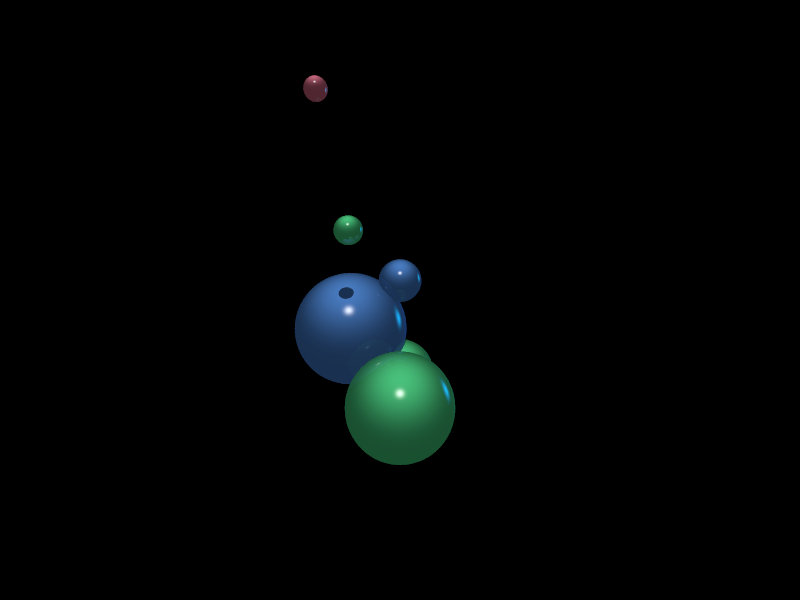
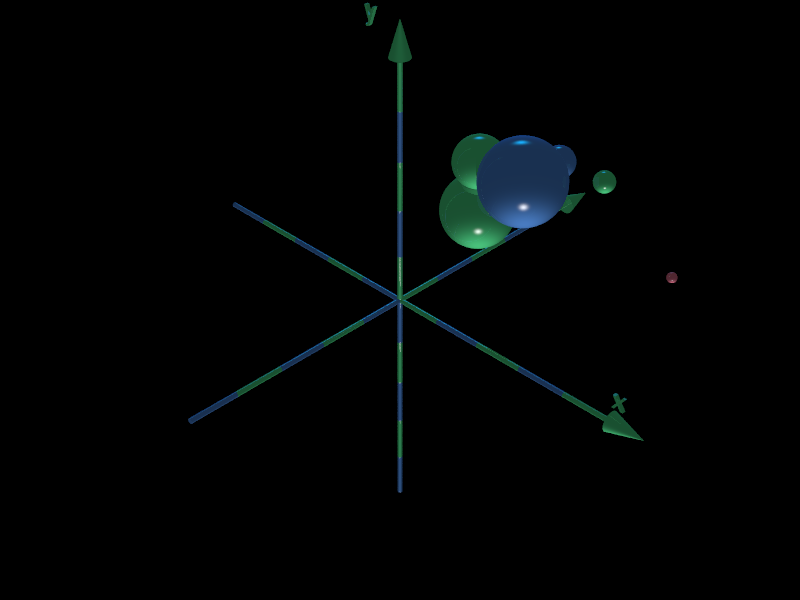
Axis, CSG, scene begin/end

diff --git a/pov.m b/pov.m
@@ -22,7 +22,11 @@ classdef pov < handle
                 o.shade = shade;
                 o.alpha = alpha;
             end
-            
+        end
+
+        % Begin scene
+        function scene_begin(o)
+            o.fh = fopen(o.out_dir + "\" + o.scene_file,'w');
             b = sprintf('#version 3.7;\n');
             b = sprintf('%sglobal_settings { assumed_gamma 1 }\n\n', b);
             b = sprintf('%s#include "colors.inc"\n',   b);
@@ -31,12 +35,22 @@ classdef pov < handle
             b = sprintf('%s#include "metals.inc"\n',   b);
             b = sprintf('%s#include "textures.inc"\n', b);
             b = sprintf('%s#include "finish.inc"\n\n', b);
-            o.fh = fopen(o.out_dir + "\" + o.scene_file,'w');            
+            b = sprintf('%s#include "axis.inc"\n\n',   b);
             fprintf(o.fh, b);
 
             figure;
         end
+        
+        % End scene
+        function scene_end(o)
+            fclose(o.fh);
+        end
 
+        % Declare
+        function declare(o, symbol, text)
+            fprintf(o.fh,'#declare %s = %s"\n', symbol, text);
+        end
+        
         % Camera
         function camera(o, angle, location, look_at)
             b = sprintf('camera {perspective angle %d\n', angle);
@@ -51,6 +65,13 @@ classdef pov < handle
             fprintf(o.fh,'light_source{< %0.1f, %0.1f, %0.1f> rgb<%0.2f, %0.2f, %0.2f>}\n\n', ...
                           location(1), location(2), location(3), ...
                           color(1), color(2), color(3));
+        end
+       
+        % Axis
+        function axis(o, size, tex_light, text_dark)
+            fprintf(o.fh,'object{AxisXYZ( %0.1f, %0.1f, %0.1f,\n      %s,      %s)}\n\n', ...
+                    size(1), size(2), size(3), ...
+                    tex_light, text_dark);
         end
 
         % Texture
@@ -87,32 +108,31 @@ classdef pov < handle
 
         % CSG:Difference
         function difference_begin(o)
-            disp("QQ:pov:difference_begin()");
+            fprintf(o.fh,'difference {\n');
         end
         function difference_end(o)
-            disp("QQ:pov:difference_end()");
+            fprintf(o.fh,'}\n\n');
         end 
 
         % CSG:Intersection
         function intersection_begin(o)
-            disp("QQ:pov:intersection_begin()");
+            fprintf(o.fh,'intersection {\n');
         end
         function intersection_end(o)
-            disp("QQ:pov:intersection_end()");
+            fprintf(o.fh,'}\n\n');
         end
 
         % CSG:Merge
         function merge_begin(o)
-            disp("QQ:pov:merge_begin()");
+            fprintf(o.fh,'merge {\n');
         end
         function merge_end(o)
-            disp("QQ:pov:merge_end()");
+            fprintf(o.fh,'}\n\n');
         end
 
         % Render
         function render(o)
             disp("QQ:pov:render()");
-            fclose(o.fh);
             figure;
             system(sprintf('"%s" /RENDER %s\\%s /EXIT', o.pov_path, o.out_dir, o.scene_file));
             imshow(o.image_file);

diff --git a/examples/spheres_union.m b/examples/spheres_union.m
@@ -7,16 +7,20 @@ pov = pov( "C:\Program Files\POV-Ray\v3.7\bin\pvengine64.exe", ...
            "spheres_union.pov", "spheres_union.png", ...
            'interp', 0.5); % 'faceted' 'flat'
 
-pov.camera(85, [3 -3 3], [0 12 0]);
+pov.scene_begin();
+pov.camera(35, [14 14 -14], [0 0 0]);
 
 pov.light([-1000 1000 1000], [0.0 0.4 0.9]);
-pov.light([3000 -3000 3000], [0.8 0.8 0.8]);
+pov.light([3000 -3000 -3000], [0.8 0.8 0.8]);
 
 tex_red   = pov.texture([0.8 0.2 0.3], "phong 1 reflection {0.10 metallic 0.4}");
 tex_green = pov.texture([0.1 0.8 0.3], "phong 1 reflection {0.20 metallic 0.1}");
 tex_blue  = pov.texture([0.1 0.3 0.8], "phong 1 reflection {0.10 metallic 0.8}");
 
-pov.union_begin();
+pov.axis([5 5 5], tex_green, tex_blue);
+
+pov.merge_begin();
+%pov.union_begin();
     pov.sphere([0.7 0.7 0.7], [0 0 0], [1 2 1], tex_green);
     pov.sphere([0.3 0.3 0.3], [0 0 0], [2 3 1], tex_red);
     pov.sphere([0.5 0.5 0.5], [0 0 0], [1 3 1], tex_green);
@@ -25,9 +29,10 @@ pov.union_begin();
     pov.sphere([0.2 0.2 0.2], [0 0 0], [3 3 2], tex_green);
     pov.sphere([0.1 0.1 0.1], [0 0 0], [4 1 3], tex_red);
     pov.sphere([0.3 0.3 0.3], [0 0 0], [2 3 2], tex_blue);
+%pov.union_end();
+pov.merge_end();
 
-pov.union_end();
-
+pov.scene_end();
 % pov.difference_begin();
 % pov.difference_end();
 % 

diff --git a/Contents.m b/Contents.m
@@ -1,0 +1,20 @@
+% POV-Lab Toolbox
+% Version 0.01 (R2021b) 09-Jan-2022
+%
+% TODO: Complete help
+%
+% Scene initialization
+%   scene_begin -
+%   scene_end
+%
+% Preprocessing directives
+%   include - 
+%   defile - 
+%
+% Constructive Solid Gwometry (CSG) operations
+%   union -
+%   difference -
+%   intersection -
+%   merge -
+%
+% Copyright 2021-2022 Yesbird Studio, Ltd.
